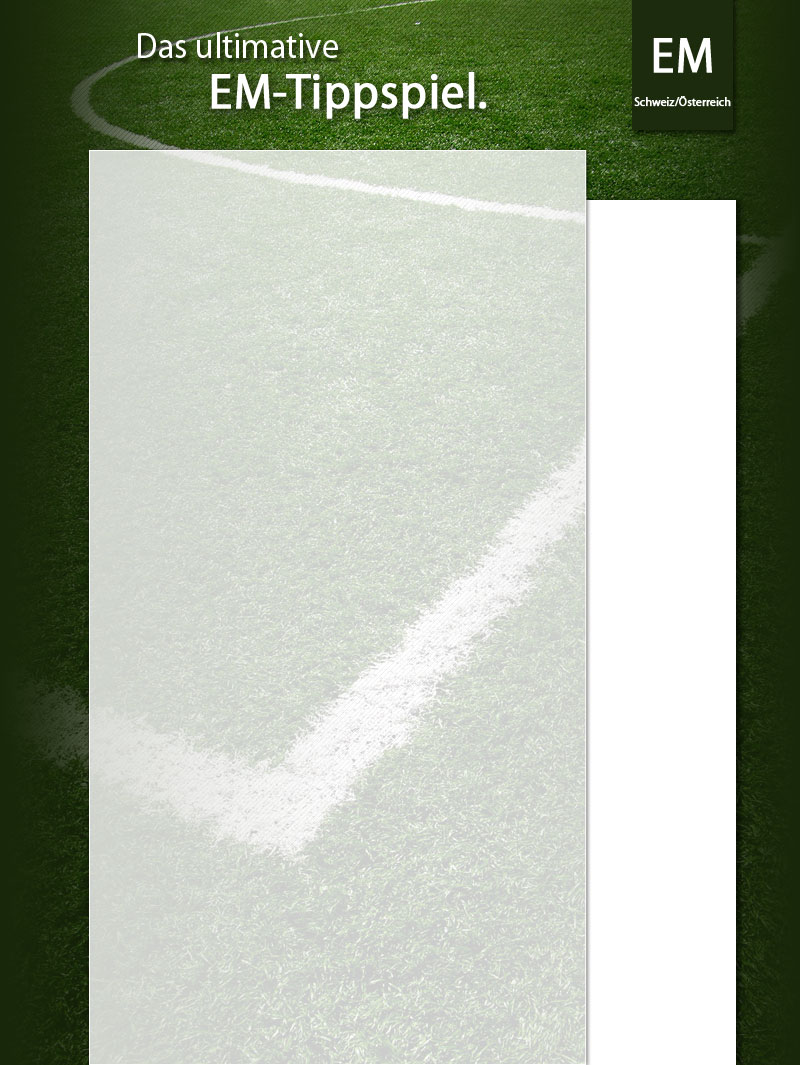
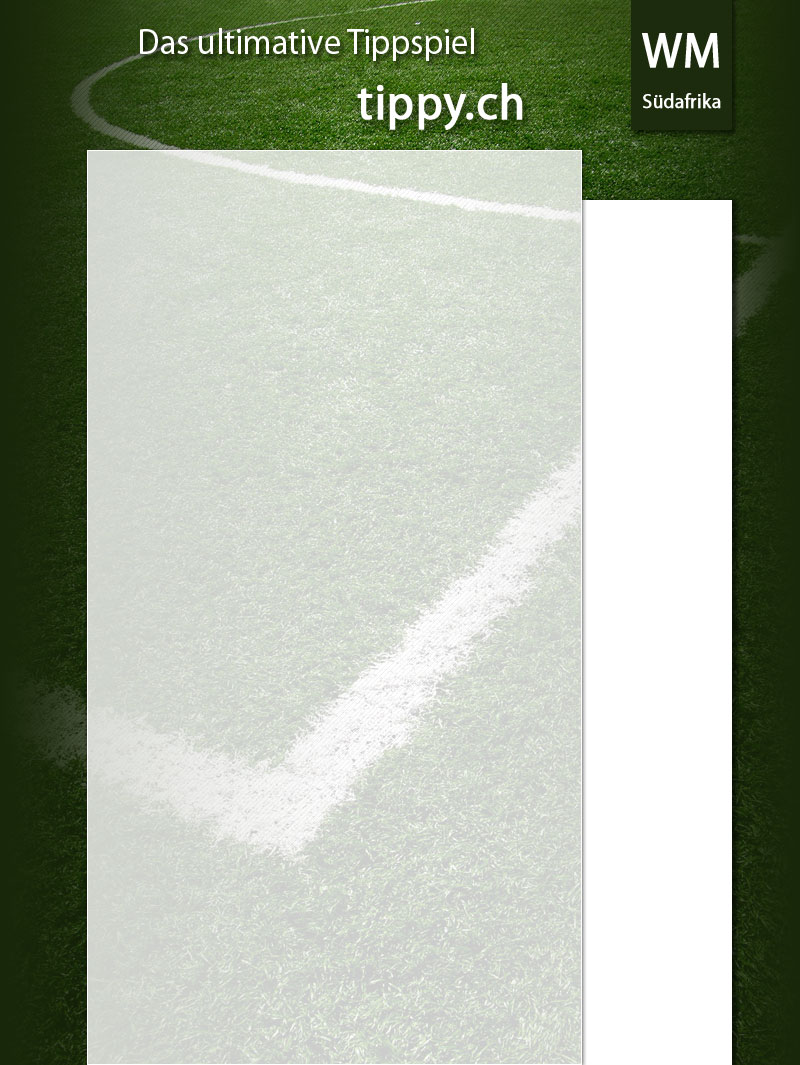
breiterer screen

diff --git a/EM2008/Layout/style.css b/EM2008/Layout/style.css
@@ -11,7 +11,7 @@ body {
 
 #container {
 	margin: 0 auto;
-	width: 730px;
+	width: 745px;
 	text-align: left;
 }
 
@@ -38,8 +38,7 @@ h1 a {
 
 #menu {
 	float: right;
-	margin: 0;
-	width: 175px;
+	width: 190px;
 	padding: 0;
 	margin: 60px 0;
 	padding-top: 10px;
@@ -76,8 +75,8 @@ body#Startseite #mn_Standard{
 }
 
 #content {
-	margin-left: 55px;
-	margin-right: 180px;
+	margin-left: 60px;
+	margin-right: 190px;
 	padding: 15px 15px;
 	font-size:  0.77em;
 	min-height: 100px;
